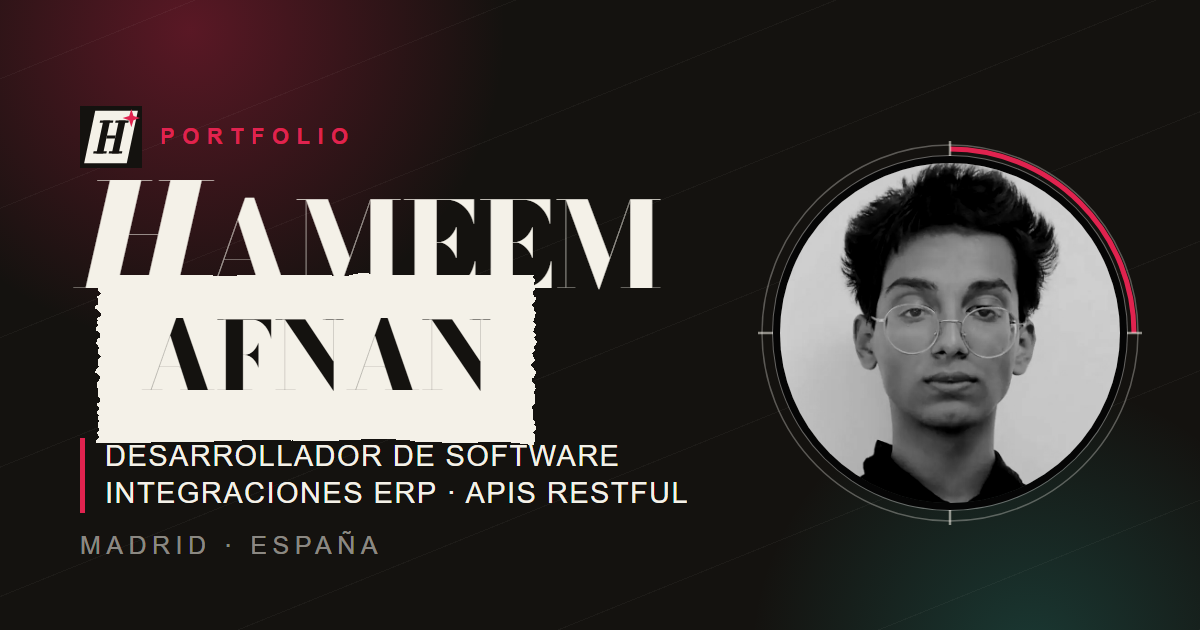
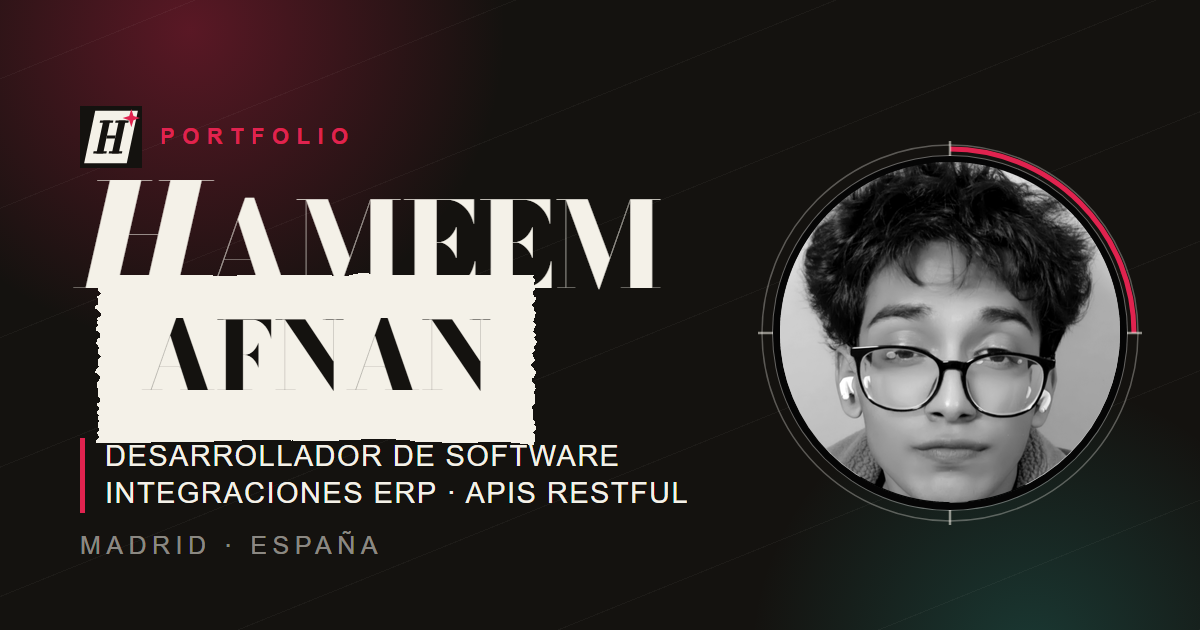
cambio de foto

Changed region(s): [[0.6475, 0.2413, 0.9558, 0.8143]]

diff --git a/index.html b/index.html
@@ -269,7 +269,7 @@
               <path class="p-arc" d="M160 14 A146 146 0 0 1 306 160" />
             </svg>
             <div class="portrait__photo">
-              <img src="./imagenes/mi-cara.webp" alt="Retrato de Hameem Afnan Akther Faroquee" width="742" height="932" decoding="async" fetchpriority="high">
+              <img src="./imagenes/mi-cara.webp" alt="Retrato de Hameem Afnan Akther Faroquee" width="742" height="958" decoding="async" fetchpriority="high">
             </div>
             <span class="portrait__tag">
               <b>MMXXVI</b>
